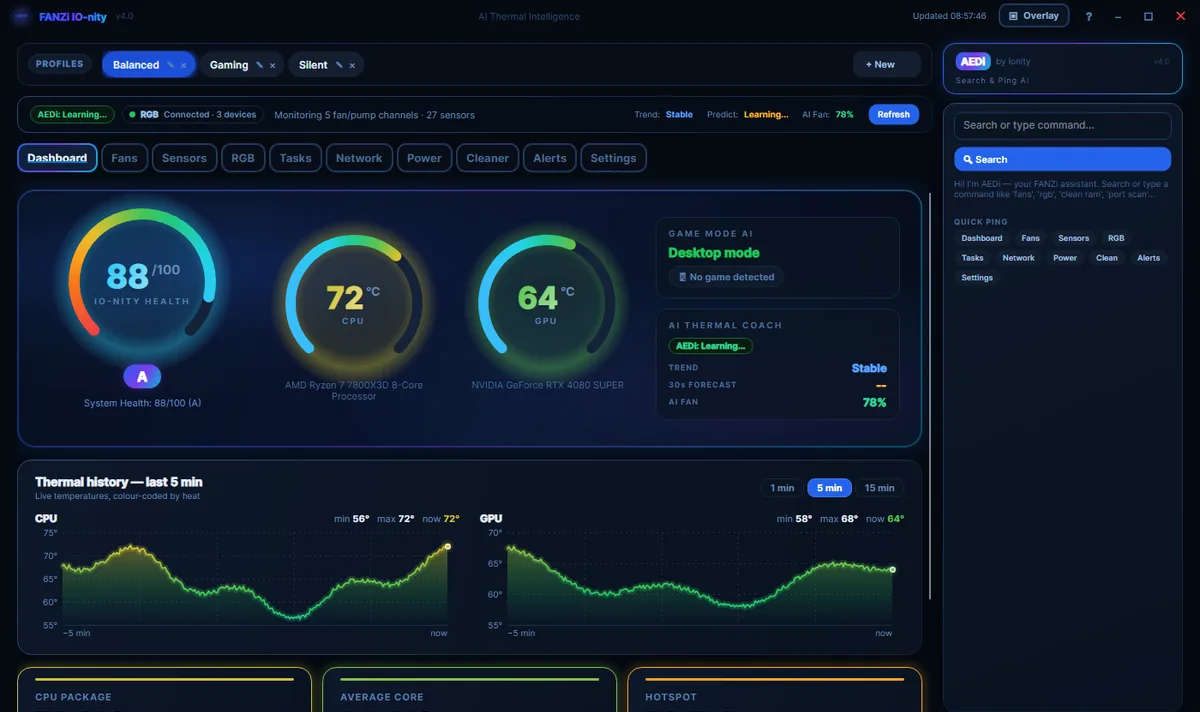
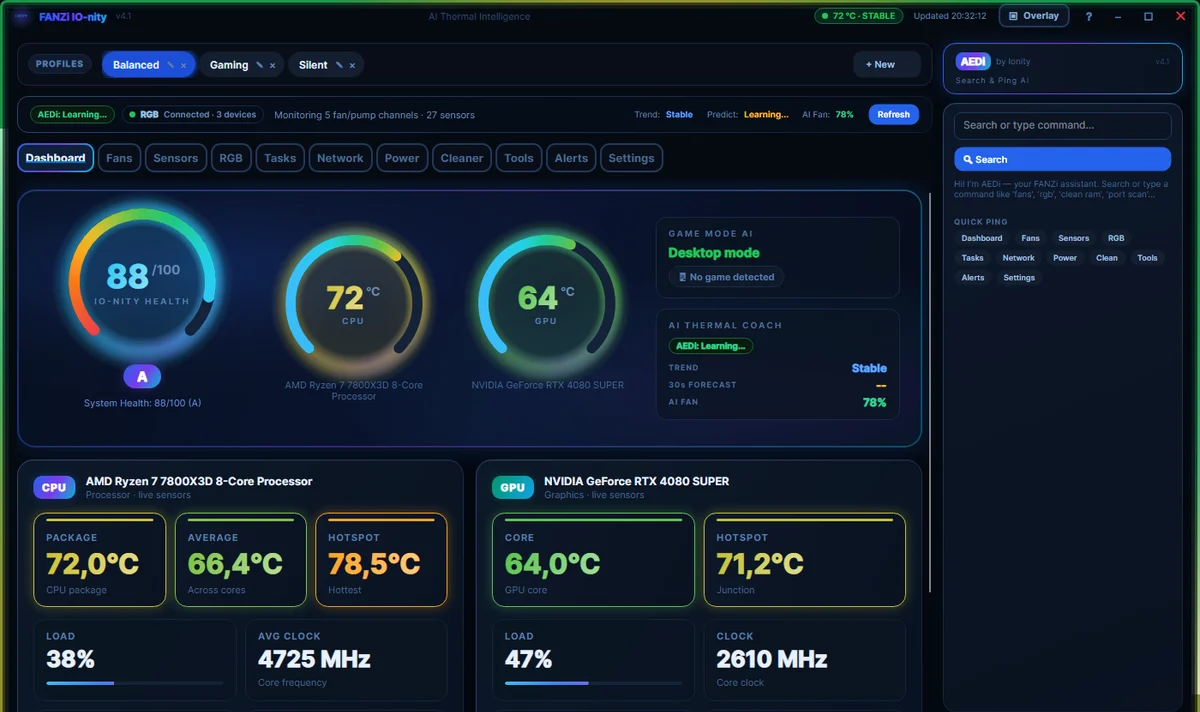
v19.5 - FANZi IO-nity 4.1.1 for Windows, macOS and Linux on Software and Freebies
Download links for every v4.1.1 asset on github.com/Ionity-Global-Pty-Ltd/FANZi-IO-nity (Windows installer / portable, macOS Apple silicon + Intel .dmg, Linux AppImage / .deb / .tar.gz x64 + arm64) with real sizes and SHA256SUMS; new 4.1 dashboard capture; JSON-LD, freebies, home, llms.txt and sitemap updated.

Claude-Session: https://claude.ai/code/session_01P4TePvgy7FnQsTSQaSnGpq

diff --git a/software.html b/software.html
@@ -4,7 +4,7 @@
 <meta charset="utf-8">
 <meta name="viewport" content="width=device-width,initial-scale=1,viewport-fit=cover">
 <title>Software — ProGramerly &amp; FANZi IO-nity · Ionity Global</title>
-<meta name="description" content="Ionity software: ProGramerly, a free desktop app that provisions a complete development environment on Windows, macOS and Linux — with AEDi local AI — and FANZi IO-nity 4.0.0, free AI thermal intelligence, fan control and RGB Studio for Windows.">
+<meta name="description" content="Ionity software: ProGramerly, a free desktop app that provisions a complete development environment on Windows, macOS and Linux — with AEDi local AI — and FANZi IO-nity 4.1.1, free AI thermal intelligence, fan control and RGB Studio for Windows.">
 <link rel="canonical" href="https://ionity.co.za/software.html">
 <meta name="theme-color" content="#07080D">
 <meta name="author" content="Johan Wilhelm van Antwerp — Ionity Global (Pty) Ltd">
@@ -52,7 +52,7 @@
 <link rel="stylesheet" href="assets/css/ionity.css?v=192">
 <script type="application/ld+json">{"@context": "https://schema.org", "@type": "BreadcrumbList", "itemListElement": [{"@type": "ListItem", "position": 1, "name": "Home", "item": "https://ionity.co.za/"}, {"@type": "ListItem", "position": 2, "name": "Software", "item": "https://ionity.co.za/software.html"}]}</script>
 <script type="application/ld+json">{"@context": "https://schema.org", "@type": "SoftwareApplication", "name": "ProGramerly", "alternateName": "ProGramerly — Basic Coding Software for All", "description": "One free desktop app that provisions a complete development environment on Windows, macOS and Linux, keeps it in sync, and watches the machine from the tray — with AEDi local AI running offline.", "applicationCategory": "DeveloperApplication", "operatingSystem": "Windows 10, Windows 11, macOS, Linux", "url": "https://ionity.digital/", "downloadUrl": "https://github.com/Ionity-Global-Pty-Ltd/ProGramerly/releases/latest", "image": "https://ionity.co.za/assets/img/software/programerly-hero.webp", "offers": {"@type": "Offer", "price": "0", "priceCurrency": "ZAR"}, "isAccessibleForFree": true, "publisher": {"@id": "https://ionity.co.za/#org"}, "author": {"@id": "https://ionity.co.za/#founder"}, "featureList": ["DOME 3D machine view", "Predict", "Relations graph", "Environments (venv, uv, conda, Node, Compose)", "AEDi local offline AI", "System controls", "OCR and vision", "140+ tools in 22 groups", "Fan curves"]}</script>
-<script type="application/ld+json">{"@context": "https://schema.org", "@type": "SoftwareApplication", "name": "FANZi IO-nity", "alternateName": "Fanzi.FanControl", "softwareVersion": "4.0.0", "datePublished": "2026-10-11", "description": "AI thermal intelligence, smart fan control, RGB Studio, Overlay Studio and system health monitoring for Windows, powered by the AEDi engine running offline. Free to use.", "applicationCategory": "UtilitiesApplication", "operatingSystem": "Windows 10, Windows 11 (x64)", "url": "https://ionity.co.za/software.html#fanzi", "downloadUrl": "https://github.com/Ionity-Global-Pty-Ltd/FANZi-IO-nity/releases/download/v4.0.0/FANZi-IO-nity-v4.0.0-Installer-win-x64.zip", "releaseNotes": "https://github.com/Ionity-Global-Pty-Ltd/FANZi-IO-nity/releases/tag/v4.0.0", "image": "https://ionity.co.za/assets/img/software/fanzi-hero.webp", "screenshot": ["https://ionity.co.za/assets/img/software/fanzi-hero.webp", "https://ionity.co.za/assets/img/software/fanzi-rgb.webp"], "offers": {"@type": "Offer", "price": "0", "priceCurrency": "ZAR"}, "isAccessibleForFree": true, "publisher": {"@id": "https://ionity.co.za/#org"}, "author": {"@id": "https://ionity.co.za/#founder"}, "featureList": ["AI Thermal Intelligence", "Smart fan curves per sensor", "RGB Studio with AEDi Lighting AI", "Overlay Studio", "Deep hardware scan (OpenRGB vs Windows)", "Thermal Guardian", "System health monitoring"]}</script>
+<script type="application/ld+json">{"@context": "https://schema.org", "@type": "SoftwareApplication", "name": "FANZi IO-nity", "alternateName": "Fanzi.FanControl", "softwareVersion": "4.1.1", "datePublished": "2026-10-13", "description": "AI thermal intelligence, smart fan control, RGB Studio, Overlay Studio and system health monitoring for Windows, powered by the AEDi engine running offline. Free to use.", "applicationCategory": "UtilitiesApplication", "operatingSystem": "Windows 10, Windows 11, macOS 12+, Linux", "url": "https://ionity.co.za/software.html#fanzi", "downloadUrl": "https://github.com/Ionity-Global-Pty-Ltd/FANZi-IO-nity/releases/download/v4.0.0/FANZi-IO-nity-v4.0.0-Installer-win-x64.zip", "releaseNotes": "https://github.com/Ionity-Global-Pty-Ltd/FANZi-IO-nity/releases/tag/v4.0.0", "image": "https://ionity.co.za/assets/img/software/fanzi-hero.webp", "screenshot": ["https://ionity.co.za/assets/img/software/fanzi-hero.webp", "https://ionity.co.za/assets/img/software/fanzi-rgb.webp"], "offers": {"@type": "Offer", "price": "0", "priceCurrency": "ZAR"}, "isAccessibleForFree": true, "publisher": {"@id": "https://ionity.co.za/#org"}, "author": {"@id": "https://ionity.co.za/#founder"}, "featureList": ["AI Thermal Intelligence", "Smart fan curves per sensor", "RGB Studio with AEDi Lighting AI", "Overlay Studio", "Deep hardware scan (OpenRGB vs Windows)", "Thermal Guardian", "System health monitoring"]}</script>
 </head>
 <body>
 <canvas id="bg3d" aria-hidden="true"></canvas>
@@ -105,7 +105,7 @@
       <div class="cta-row">
         <a class="btn btn-primary" href="https://ionity.digital/" target="_blank" rel="noopener" data-sfx="confirm">Open ionity.digital <svg class="ext-ico" viewBox="0 0 24 24" fill="none" stroke="currentColor" stroke-width="2"><path d="M7 17 17 7M9 7h8v8"/></svg></a>
         <a class="btn btn-ghost" href="https://github.com/Ionity-Global-Pty-Ltd/ProGramerly/releases/latest" target="_blank" rel="noopener">Latest release <svg viewBox="0 0 24 24" fill="none" stroke="currentColor" stroke-width="2"><path d="M12 4v12M6 10l6 6 6-6M4 20h16"/></svg></a>
-        <a class="btn btn-ghost" href="#fanzi">FANZi IO-nity 4.0.0 <svg viewBox="0 0 24 24" fill="none" stroke="currentColor" stroke-width="2"><path d="M12 5v14M5 12l7 7 7-7"/></svg></a>
+        <a class="btn btn-ghost" href="#fanzi">FANZi IO-nity 4.1.1 <svg viewBox="0 0 24 24" fill="none" stroke="currentColor" stroke-width="2"><path d="M12 5v14M5 12l7 7 7-7"/></svg></a>
         <a class="btn btn-ghost" href="freebies.html">Freebies <svg viewBox="0 0 24 24" fill="none" stroke="currentColor" stroke-width="2"><path d="M5 12h14M13 6l6 6-6 6"/></svg></a>
       </div>
     </div>
@@ -184,36 +184,50 @@
   <div class="product-hero">
     <div class="reveal">
       <span class="kicker">04 · FANZi IO-nity</span>
-      <h2 class="mt-1">FANZi IO-nity 4.0.0. <span class="grad-text">Your PC, cool and lit.</span></h2>
-      <p class="lead mt-1">Free AI thermal intelligence for Windows: smart fan curves per sensor, <strong>RGB Studio</strong> with <strong>AEDi Lighting AI</strong> running offline, <strong>Overlay Studio</strong>, a deep hardware scan that cross-checks OpenRGB against Windows, and live system health — all on one heartbeat. It is the tool that holds the fan driver for ProGramerly.</p>
+      <h2 class="mt-1">FANZi IO-nity 4.1.1. <span class="grad-text">Your PC, cool and lit.</span></h2>
+      <p class="lead mt-1">Free AI thermal intelligence for Windows, macOS, Linux: smart fan curves per sensor, <strong>RGB Studio</strong> with <strong>AEDi Lighting AI</strong> running offline, <strong>Overlay Studio</strong>, a deep hardware scan that cross-checks OpenRGB against Windows, and live system health — all on one heartbeat. It is the tool that holds the fan driver for ProGramerly.</p>
       <div class="meta-row">
         <span class="pill"><span class="dot"></span> Free</span>
-        <span class="pill">Windows 10 · 11 · x64</span>
-        <span class="pill">v4.0.0 · 2026-10-11</span>
+        <span class="pill">Windows · macOS · Linux</span>
+        <span class="pill">v4.1.1 · 2026-10-13</span>
         <span class="pill">Offline AEDi</span>
       </div>
+      <p class="kicker" style="margin:.9rem 0 .35rem">Windows 10 · 11</p>
       <div class="cta-row">
-        <a class="btn btn-primary" href="https://github.com/Ionity-Global-Pty-Ltd/FANZi-IO-nity/releases/download/v4.0.0/FANZi-IO-nity-v4.0.0-Installer-win-x64.zip" rel="noopener" data-sfx="confirm">Installer · 112 MB <svg viewBox="0 0 24 24" fill="none" stroke="currentColor" stroke-width="2"><path d="M12 4v12M6 10l6 6 6-6M4 20h16"/></svg></a>
-        <a class="btn btn-ghost" href="https://github.com/Ionity-Global-Pty-Ltd/FANZi-IO-nity/releases/download/v4.0.0/FANZi-IO-nity-v4.0.0-Portable-win-x64.exe" rel="noopener">Portable .exe · 142 MB <svg viewBox="0 0 24 24" fill="none" stroke="currentColor" stroke-width="2"><path d="M12 4v12M6 10l6 6 6-6M4 20h16"/></svg></a>
-        <a class="btn btn-ghost" href="https://github.com/Ionity-Global-Pty-Ltd/FANZi-IO-nity/releases/download/v4.0.0/FANZi-IO-nity-v4.0.0-Portable-win-x64.zip" rel="noopener">Portable .zip · 59 MB <svg viewBox="0 0 24 24" fill="none" stroke="currentColor" stroke-width="2"><path d="M12 4v12M6 10l6 6 6-6M4 20h16"/></svg></a>
+        <a class="btn btn-primary" href="https://github.com/Ionity-Global-Pty-Ltd/FANZi-IO-nity/releases/download/v4.1.1/FANZi-IO-nity-v4.1.1-Installer-win-x64.zip" rel="noopener" data-sfx="confirm">Installer · 112 MB <svg viewBox="0 0 24 24" fill="none" stroke="currentColor" stroke-width="2"><path d="M12 4v12M6 10l6 6 6-6M4 20h16"/></svg></a>
+        <a class="btn btn-ghost" href="https://github.com/Ionity-Global-Pty-Ltd/FANZi-IO-nity/releases/download/v4.1.1/FANZi-IO-nity-v4.1.1-Portable-win-x64.exe" rel="noopener">Portable .exe · 143 MB <svg viewBox="0 0 24 24" fill="none" stroke="currentColor" stroke-width="2"><path d="M12 4v12M6 10l6 6 6-6M4 20h16"/></svg></a>
+        <a class="btn btn-ghost" href="https://github.com/Ionity-Global-Pty-Ltd/FANZi-IO-nity/releases/download/v4.1.1/FANZi-IO-nity-v4.1.1-Portable-win-x64.zip" rel="noopener">Portable .zip · 60 MB <svg viewBox="0 0 24 24" fill="none" stroke="currentColor" stroke-width="2"><path d="M12 4v12M6 10l6 6 6-6M4 20h16"/></svg></a>
       </div>
-      <div class="cta-row" style="margin-top:.6rem">
-        <a class="btn btn-ghost" href="https://github.com/Ionity-Global-Pty-Ltd/FANZi-IO-nity/releases/tag/v4.0.0" target="_blank" rel="noopener">Release notes <svg class="ext-ico" viewBox="0 0 24 24" fill="none" stroke="currentColor" stroke-width="2"><path d="M7 17 17 7M9 7h8v8"/></svg></a>
+      <p class="kicker" style="margin:.9rem 0 .35rem">macOS 12+</p>
+      <div class="cta-row">
+        <a class="btn btn-ghost" href="https://github.com/Ionity-Global-Pty-Ltd/FANZi-IO-nity/releases/download/v4.1.1/FANZi-IO-nity-v4.1.1-macOS-arm64.dmg" rel="noopener">Apple silicon .dmg · 48 MB <svg viewBox="0 0 24 24" fill="none" stroke="currentColor" stroke-width="2"><path d="M12 4v12M6 10l6 6 6-6M4 20h16"/></svg></a>
+        <a class="btn btn-ghost" href="https://github.com/Ionity-Global-Pty-Ltd/FANZi-IO-nity/releases/download/v4.1.1/FANZi-IO-nity-v4.1.1-macOS-x64.dmg" rel="noopener">Intel .dmg · 51 MB <svg viewBox="0 0 24 24" fill="none" stroke="currentColor" stroke-width="2"><path d="M12 4v12M6 10l6 6 6-6M4 20h16"/></svg></a>
+      </div>
+      <p class="kicker" style="margin:.9rem 0 .35rem">Linux</p>
+      <div class="cta-row">
+        <a class="btn btn-ghost" href="https://github.com/Ionity-Global-Pty-Ltd/FANZi-IO-nity/releases/download/v4.1.1/FANZi-IO-nity-v4.1.1-x86_64.AppImage" rel="noopener">AppImage x64 · 41 MB <svg viewBox="0 0 24 24" fill="none" stroke="currentColor" stroke-width="2"><path d="M12 4v12M6 10l6 6 6-6M4 20h16"/></svg></a>
+        <a class="btn btn-ghost" href="https://github.com/Ionity-Global-Pty-Ltd/FANZi-IO-nity/releases/download/v4.1.1/FANZi-IO-nity-v4.1.1-amd64.deb" rel="noopener">.deb x64 · 36 MB <svg viewBox="0 0 24 24" fill="none" stroke="currentColor" stroke-width="2"><path d="M12 4v12M6 10l6 6 6-6M4 20h16"/></svg></a>
+        <a class="btn btn-ghost" href="https://github.com/Ionity-Global-Pty-Ltd/FANZi-IO-nity/releases/download/v4.1.1/FANZi-IO-nity-v4.1.1-arm64.deb" rel="noopener">.deb arm64 · 33 MB <svg viewBox="0 0 24 24" fill="none" stroke="currentColor" stroke-width="2"><path d="M12 4v12M6 10l6 6 6-6M4 20h16"/></svg></a>
+        <a class="btn btn-ghost" href="https://github.com/Ionity-Global-Pty-Ltd/FANZi-IO-nity/releases/download/v4.1.1/FANZi-IO-nity-v4.1.1-linux-x64.tar.gz" rel="noopener">.tar.gz x64 · 43 MB <svg viewBox="0 0 24 24" fill="none" stroke="currentColor" stroke-width="2"><path d="M12 4v12M6 10l6 6 6-6M4 20h16"/></svg></a>
+        <a class="btn btn-ghost" href="https://github.com/Ionity-Global-Pty-Ltd/FANZi-IO-nity/releases/download/v4.1.1/FANZi-IO-nity-v4.1.1-linux-arm64.tar.gz" rel="noopener">.tar.gz arm64 · 41 MB <svg viewBox="0 0 24 24" fill="none" stroke="currentColor" stroke-width="2"><path d="M12 4v12M6 10l6 6 6-6M4 20h16"/></svg></a>
+      </div>
+      <div class="cta-row" style="margin-top:.9rem">
+        <a class="btn btn-ghost" href="https://github.com/Ionity-Global-Pty-Ltd/FANZi-IO-nity/releases/tag/v4.1.1" target="_blank" rel="noopener">Release notes <svg class="ext-ico" viewBox="0 0 24 24" fill="none" stroke="currentColor" stroke-width="2"><path d="M7 17 17 7M9 7h8v8"/></svg></a>
         <a class="btn btn-ghost" href="https://github.com/Ionity-Global-Pty-Ltd/FANZi-IO-nity" target="_blank" rel="noopener">GitHub <svg class="ext-ico" viewBox="0 0 24 24" fill="none" stroke="currentColor" stroke-width="2"><path d="M7 17 17 7M9 7h8v8"/></svg></a>
-        <a class="btn btn-ghost" href="https://github.com/Ionity-Global-Pty-Ltd/FANZi-IO-nity/releases/download/v4.0.0/SHA256SUMS.txt" rel="noopener">SHA256SUMS.txt <svg viewBox="0 0 24 24" fill="none" stroke="currentColor" stroke-width="2"><path d="M12 4v12M6 10l6 6 6-6M4 20h16"/></svg></a>
+        <a class="btn btn-ghost" href="https://github.com/Ionity-Global-Pty-Ltd/FANZi-IO-nity/releases/download/v4.1.1/SHA256SUMS.txt" rel="noopener">SHA256SUMS.txt <svg viewBox="0 0 24 24" fill="none" stroke="currentColor" stroke-width="2"><path d="M12 4v12M6 10l6 6 6-6M4 20h16"/></svg></a>
       </div>
-      <p class="note mt-1" style="font-size:.78rem">Proprietary, free to use · © 2018–2026 Ionity Global (Pty) Ltd. Verify the download against SHA256SUMS.txt. New in 4.0.0: RGB Studio, AEDi Lighting AI, Overlay Studio, deep hardware scan, device cards with Identify, Thermal Guardian, night dimming.</p>
+      <p class="note mt-1" style="font-size:.78rem">Proprietary, free to use · © 2018–2026 Ionity Global (Pty) Ltd. Verify downloads against the SHA256SUMS files. New in 4.1.1: the thermal frame (a running line around the window, blue cold · green stable · red hot), a CPU | GPU dashboard, the Tools tab, OpenRGB endpoint settings with Take control, and native macOS and Linux builds. macOS builds are not notarised yet: right-click the app → Open the first time.</p>
     </div>
     <div class="reveal d2">
-      <a class="browser" href="https://github.com/Ionity-Global-Pty-Ltd/FANZi-IO-nity/releases/tag/v4.0.0" target="_blank" rel="noopener" aria-label="FANZi IO-nity 4.0.0 dashboard — open the release on GitHub">
-        <div class="browser-bar"><i></i><i></i><i></i><span class="url">FANZi IO-nity 4.0.0 · Dashboard</span></div>
-        <img src="assets/img/software/fanzi-hero.webp" alt="FANZi IO-nity 4.0.0 dashboard: CPU, GPU and board temperature gauges, thermal history and fan status" width="1200" height="712" loading="lazy" decoding="async">
+      <a class="browser" href="https://github.com/Ionity-Global-Pty-Ltd/FANZi-IO-nity/releases/tag/v4.1.1" target="_blank" rel="noopener" aria-label="FANZi IO-nity 4.1.1 dashboard — open the release on GitHub">
+        <div class="browser-bar"><i></i><i></i><i></i><span class="url">FANZi IO-nity 4.1.1 · Dashboard</span></div>
+        <img src="assets/img/software/fanzi-hero.webp" alt="FANZi IO-nity 4.1.1 dashboard: CPU, GPU and board temperature gauges, thermal history and fan status" width="1200" height="712" loading="lazy" decoding="async">
       </a>
-      <a class="browser mt-1" href="https://github.com/Ionity-Global-Pty-Ltd/FANZi-IO-nity/releases/tag/v4.0.0" target="_blank" rel="noopener" aria-label="FANZi IO-nity RGB Studio — open the release on GitHub" style="display:block;margin-top:1rem">
-        <div class="browser-bar"><i></i><i></i><i></i><span class="url">FANZi IO-nity 4.0.0 · RGB Studio</span></div>
+      <a class="browser mt-1" href="https://github.com/Ionity-Global-Pty-Ltd/FANZi-IO-nity/releases/tag/v4.1.1" target="_blank" rel="noopener" aria-label="FANZi IO-nity RGB Studio — open the release on GitHub" style="display:block;margin-top:1rem">
+        <div class="browser-bar"><i></i><i></i><i></i><span class="url">FANZi IO-nity 4.1.1 · RGB Studio</span></div>
         <img src="assets/img/software/fanzi-rgb.webp" alt="FANZi IO-nity RGB Studio: AEDi Lighting AI mood box, effect chips, colour swatches and device cards" width="1200" height="712" loading="lazy" decoding="async">
       </a>
-      <p class="device-cap">Dashboard and RGB Studio · real 4.0.0 captures</p>
+      <p class="device-cap">Dashboard and RGB Studio · app captures</p>
     </div>
   </div>
 </section>
@@ -250,7 +264,7 @@
   <div class="feature center reveal">
     <span class="kicker" style="justify-content:center">06 · Your move</span>
     <h2 class="mt-1">Set up in one run. <span class="grad-text">Free.</span></h2>
-    <p class="lead mt-1" style="margin-inline:auto;max-width:50ch">Grab ProGramerly at ionity.digital, download FANZi IO-nity 4.0.0 above — or tell us about the software your business needs and we’ll build it.</p>
+    <p class="lead mt-1" style="margin-inline:auto;max-width:50ch">Grab ProGramerly at ionity.digital, download FANZi IO-nity 4.1.1 above — or tell us about the software your business needs and we’ll build it.</p>
     <div class="cta-row" style="justify-content:center;margin-top:1.6rem">
       <a class="btn btn-primary" href="https://ionity.digital/" target="_blank" rel="noopener">Get ProGramerly <svg class="ext-ico" viewBox="0 0 24 24" fill="none" stroke="currentColor" stroke-width="2"><path d="M7 17 17 7M9 7h8v8"/></svg></a>
       <a class="btn btn-ghost" href="contact.html?service=software">Build my software <svg viewBox="0 0 24 24" fill="none" stroke="currentColor" stroke-width="2"><path d="M5 12h14M13 6l6 6-6 6"/></svg></a>

diff --git a/freebies.html b/freebies.html
@@ -4,7 +4,7 @@
 <meta charset="utf-8">
 <meta name="viewport" content="width=device-width,initial-scale=1,viewport-fit=cover">
 <title>Freebies — free games &amp; tools · Ionity Global</title>
-<meta name="description" content="Free from Ionity: play IO-MAN, our ASCII beat-em-up, on ionity.fun — plus ProGramerly, FANZi IO-nity 4.0.0 (fan control, RGB Studio, thermal AI for Windows), the Edge Lab micro-audit, the AEDi assistant and open-source code. No sign-up.">
+<meta name="description" content="Free from Ionity: play IO-MAN, our ASCII beat-em-up, on ionity.fun — plus ProGramerly, FANZi IO-nity 4.1.1 (fan control, RGB Studio, thermal AI for Windows, macOS and Linux), the Edge Lab micro-audit, the AEDi assistant and open-source code. No sign-up.">
 <link rel="canonical" href="https://ionity.co.za/freebies.html">
 <meta name="theme-color" content="#07080D">
 <meta name="author" content="Johan Wilhelm van Antwerp — Ionity Global (Pty) Ltd">
@@ -95,7 +95,7 @@
     <div class="reveal">
       <span class="kicker" style="color:var(--orange)">Freebies · by Ionity</span>
       <h1>Free to play. <span class="warm-text">Free to use.</span></h1>
-      <p class="lead">Games, tools and software from Ionity — no sign-up, no paywall. Start with <strong>IO-MAN</strong> on <strong>ionity.fun</strong>, our gaming site: an ASCII beat-em-up that runs right in your browser. New on the shelf: <strong>FANZi IO-nity 4.0.0</strong> for Windows.</p>
+      <p class="lead">Games, tools and software from Ionity — no sign-up, no paywall. Start with <strong>IO-MAN</strong> on <strong>ionity.fun</strong>, our gaming site: an ASCII beat-em-up that runs right in your browser. New on the shelf: <strong>FANZi IO-nity 4.1.1</strong> for Windows, macOS and Linux.</p>
       <div class="meta-row">
         <span class="pill"><span class="dot"></span> 100% free</span>
         <span class="pill">Browser · gamepad · mobile</span>
@@ -175,8 +175,8 @@
     </a>
     <a class="free-card reveal" href="software.html#fanzi">
       <span class="ribbon">Software</span>
-      <div class="thumb"><img src="assets/img/software/fanzi-rgb.webp" alt="FANZi IO-nity 4.0.0 RGB Studio" width="1200" height="712" loading="lazy" decoding="async"></div>
-      <div class="body"><span class="kicker">Windows · v4.0.0</span><h3>FANZi IO-nity</h3><p>AI thermal intelligence, smart fan curves, RGB Studio and system health — offline AEDi. Installer, portable .exe and .zip, free.</p><span class="go">Download 4.0.0 <svg viewBox="0 0 24 24" fill="none" stroke="currentColor" stroke-width="2"><path d="M5 12h14M13 6l6 6-6 6"/></svg></span></div>
+      <div class="thumb"><img src="assets/img/software/fanzi-rgb.webp" alt="FANZi IO-nity 4.1.1 RGB Studio" width="1200" height="712" loading="lazy" decoding="async"></div>
+      <div class="body"><span class="kicker">Windows · macOS · Linux · v4.1.1</span><h3>FANZi IO-nity</h3><p>AI thermal intelligence, smart fan curves, RGB Studio and system health — offline AEDi. Windows installer and portable, macOS .dmg, Linux AppImage / .deb — free.</p><span class="go">Download 4.1.1 <svg viewBox="0 0 24 24" fill="none" stroke="currentColor" stroke-width="2"><path d="M5 12h14M13 6l6 6-6 6"/></svg></span></div>
     </a>
     <a class="free-card reveal" href="edge.html">
       <span class="ribbon">Tool</span>

diff --git a/index.html b/index.html
@@ -374,7 +374,7 @@
   <div class="section-head reveal">
     <span class="kicker">09 · Made by Ionity</span>
     <h2>Software you can <span class="grad-text">use today</span>.</h2>
-    <p>Not only client work — we ship our own. A free development suite for every OS, <a href="software.html#fanzi" style="color:var(--cyan)">FANZi IO-nity 4.0.0</a> for Windows cooling and RGB, and a free arcade game built on the same AEDi stack.</p>
+    <p>Not only client work — we ship our own. A free development suite for every OS, <a href="software.html#fanzi" style="color:var(--cyan)">FANZi IO-nity 4.1.1</a> for cooling and RGB on Windows, macOS and Linux, and a free arcade game built on the same AEDi stack.</p>
   </div>
   <div class="duo">
     <a class="free-card reveal" href="software.html">
